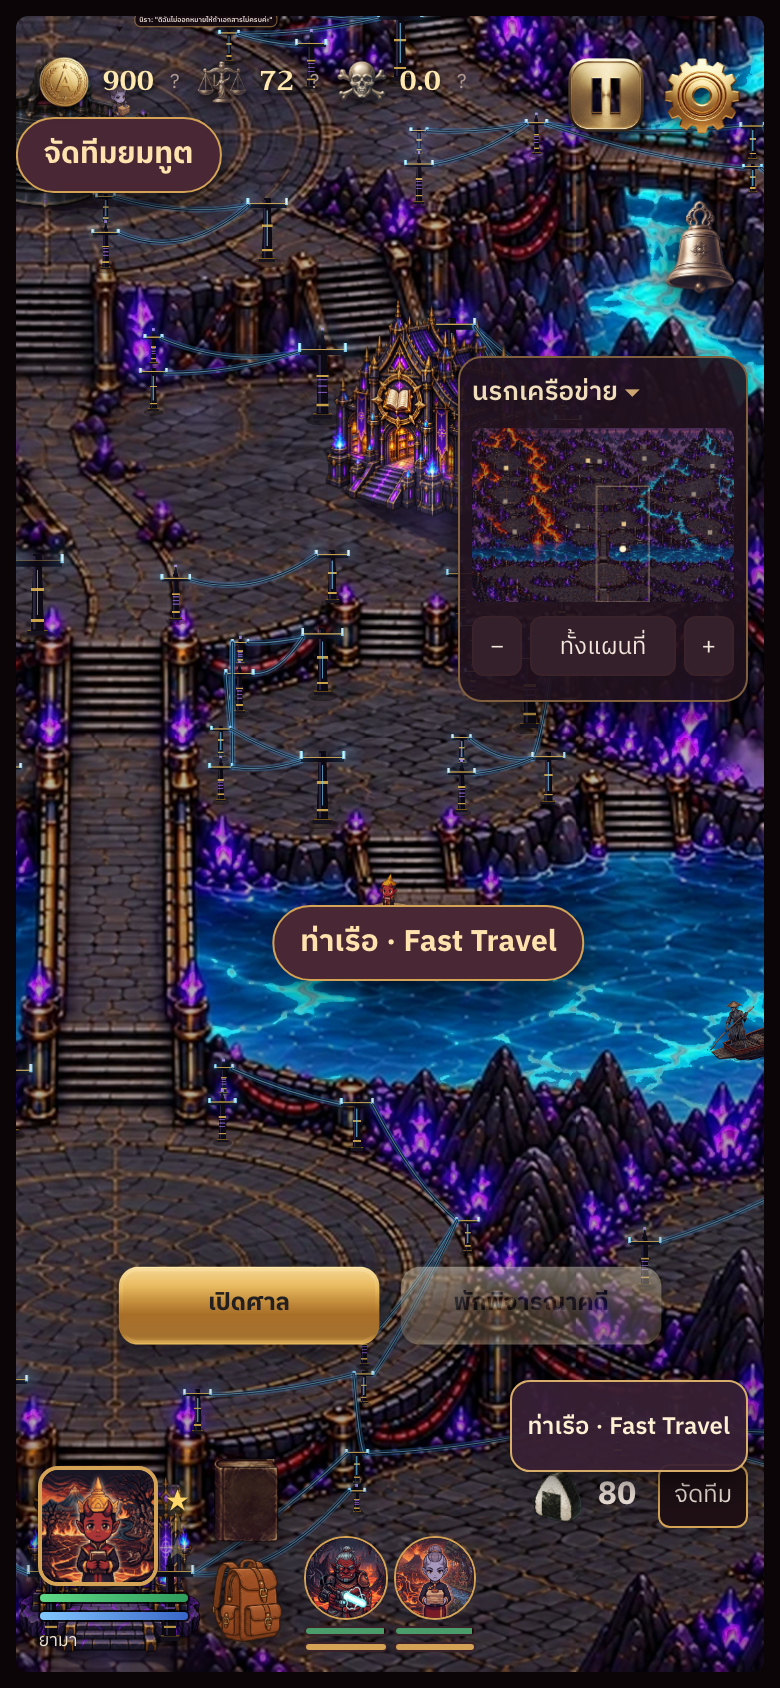
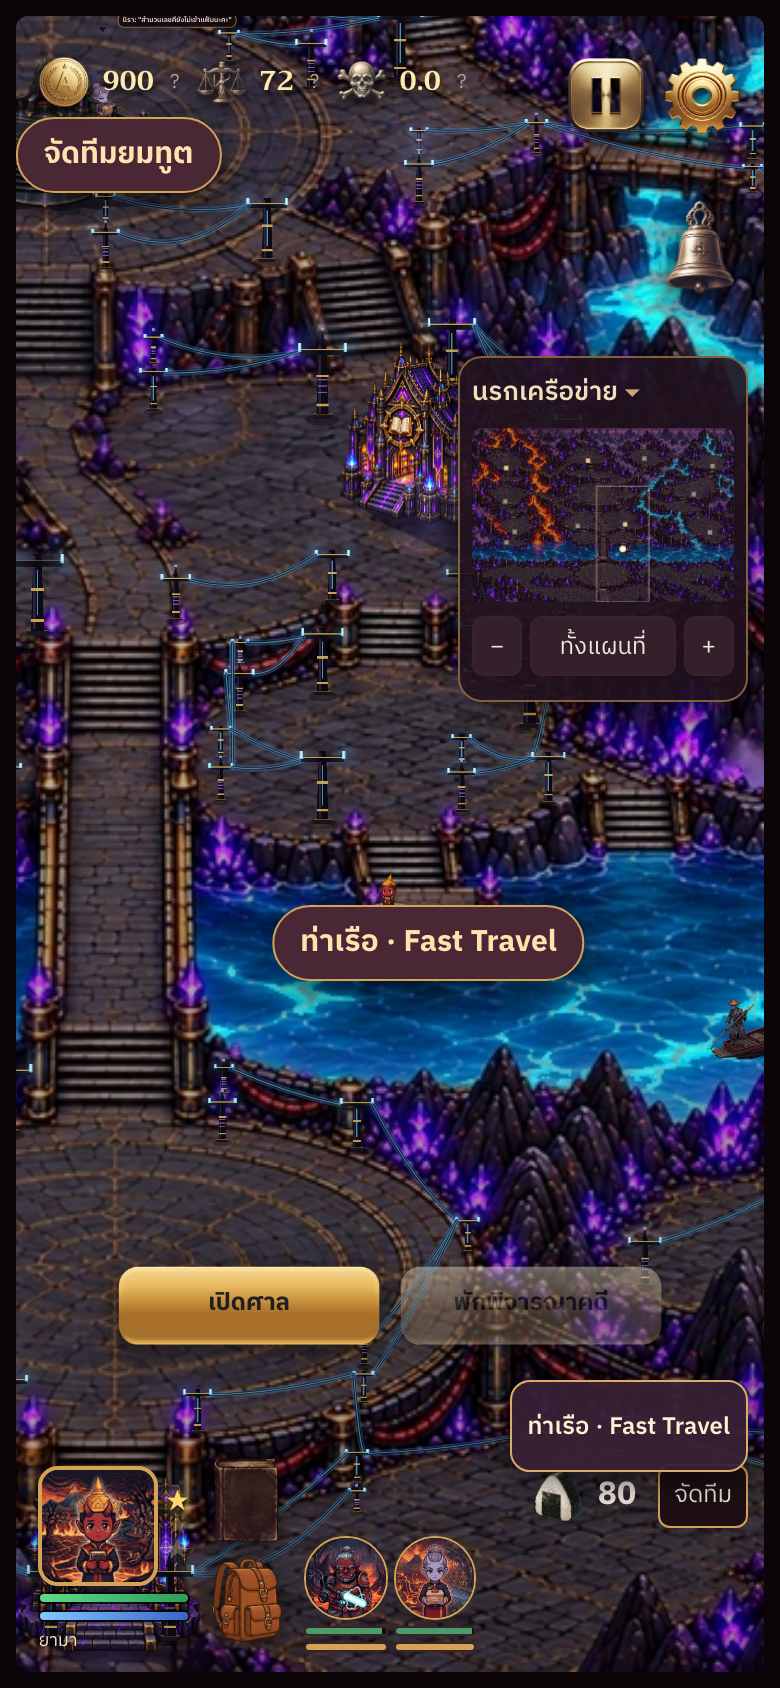
Q4-5: retire the zone 4 pier boss visually (standee, hit spot, talk button) via bossPierRetired; rematch game rule untouched

diff --git a/src/scene.js b/src/scene.js
@@ -4,7 +4,7 @@ import {drawCyberhellTerrain} from './cyberhell-terrain.js';
 import {drawMapTravel} from './map-travel.js';
 import {bossJusticeCase,bossJusticeActors} from './boss-justice.js';
 import {zoneWorkers,drawWorker} from './workers.js';
-import {bossGuideDismissed} from './boss-guides.js';
+import {bossGuideDismissed,bossPierRetired} from './boss-guides.js';
 import { drawAnimatedSprite } from './combat-sprites.js?v=night-v1';
 import { drawLocalLight } from './scene-style.js';
 import { activeTownZone } from './zone-skin.js';
@@ -533,7 +533,7 @@ export function render(ctx, g, t, hover, sel, cameraView = null) {
   })));
 
   // บอสเดินมาท้าสู้; แพ้แล้วเฝ้าสะพาน ชนะแล้วไปยืนที่ท่าเรือให้รีแมตช์/เปลี่ยนโซน
-  if (!(g.zone==='th'&&g.bossCleared?.th) && !bossGuideDismissed(g) && !(justice?.art?.startsWith('zone-boss')) && (g.bossWalk || g.bossGuarding?.[g.zone] || g.bossCleared?.[g.zone])) {
+  if (!(g.zone==='th'&&g.bossCleared?.th) && !bossGuideDismissed(g) && !bossPierRetired(g) && !(justice?.art?.startsWith('zone-boss')) && (g.bossWalk || g.bossGuarding?.[g.zone] || g.bossCleared?.[g.zone])) {
     const walk = g.bossWalk;
     const progress = walk ? Math.min(1, Math.max(0, (Date.now() - walk.started) / walk.duration)) : 0;
     const cleared = !walk && g.bossCleared?.[g.zone];
@@ -1022,7 +1022,7 @@ export function hitActor(g, sx, sy) {
   if (!westRescuePending(g) && g.zoneCaptivesFree() && merchantAvailable(g) && near(MERCHANT.x, MERCHANT.y, radius(54))) return { kind:'merchant', key:0 };
   if (westRescueActors(g).some(a => near(a.x,a.y,radius(60))))
     return { kind:'zoneEvent', key:'westHypnotized' };
-  if (g.zone!=='th' && g.bossCleared?.[g.zone] && !bossGuideDismissed(g) && near(SPOTS.bossPier.x, SPOTS.bossPier.y, radius(54))) return { kind:'boss', key:g.zone };
+  if (g.zone!=='th' && g.bossCleared?.[g.zone] && !bossGuideDismissed(g) && !bossPierRetired(g) && near(SPOTS.bossPier.x, SPOTS.bossPier.y, radius(54))) return { kind:'boss', key:g.zone };
   if (westRescuePending(g)) return null;
   for (let i = 0; i < g.mobs.length; i++)
     if (near(g.mobs[i].x, g.mobs[i].y)) return g.mobs[i].eventKey

diff --git a/src/npc-stand.js b/src/npc-stand.js
@@ -5,7 +5,7 @@ import { finalEventActors } from './final-event.js';
 // npc-stand.js — ตัวละครบนแผนที่ที่ยมบาทเดินทับไม่ได้ (30D)
 // ยมบาทเดินทับตัวเขาไม่ได้ (src/walk.js วงรอบตัว) · พิกัดตรงกับที่ scene.js วาด จึงอยู่ที่เดียวไม่ให้คลาดกัน
 import { SPOTS, MOB, MERCHANT, ZONE_EVENTS } from './data.js';
-import { bossGuideDismissed } from './boss-guides.js';
+import { bossGuideDismissed, bossPierRetired } from './boss-guides.js';
 
 /** อีเวนต์ที่รออยู่ที่ท่าเรือ (ผู้ท้าทายยืนรอให้ยมบาทเดินไปหา) — scene.js วาด, game.js กันทาง */
 export const waitingEvents = g => {
@@ -31,7 +31,7 @@ export function standPoints(g) {
   if (g.zoneCaptivesFree()) pts.push([MERCHANT.x, MERCHANT.y]);
   else pts.push([966, 350], [1038, 350]);        // ทัณฑ์กับพ่อค้าที่ถูกขังหน้าตะราง (โซน 4)
   if (actorStanding(g.guard)) pts.push([g.guard.x, g.guard.y]);
-  if (!g.bossWalk && !bossGuideDismissed(g) && (g.bossGuarding?.[g.zone] || g.bossCleared?.[g.zone])) pts.push([SPOTS.bossPier.x, SPOTS.bossPier.y]);
+  if (!g.bossWalk && !bossGuideDismissed(g) && !bossPierRetired(g) && (g.bossGuarding?.[g.zone] || g.bossCleared?.[g.zone])) pts.push([SPOTS.bossPier.x, SPOTS.bossPier.y]);
   for (const ev of waitingEvents(g)) pts.push([ev.x, ev.y]);
   for (const a of devaMapActors(g)) if (a.enabled) pts.push([a.x,a.y]);
   for (const a of finalEventActors(g)) pts.push([a.x,a.y]);

diff --git a/src/ui.js b/src/ui.js
@@ -13,7 +13,7 @@ import {canteenState} from './canteen.js';
 import {beginMapTravel,advanceMapTravel,finishMapTravel,cancelMapTravel,KAN_HANDOFF} from './map-travel.js';
 import { rewardView, startRewardCount, selectedVisibleFoeId, battleStatuses, specialMoveKey } from './battle-result.js';
 import { isMeleeAction, planDash, dashTiming, createDashSequence } from './battle-dash.js';
-import {pendingBossGuideGrant,acknowledgeBossGuideGrant} from './boss-guides.js';
+import {pendingBossGuideGrant,acknowledgeBossGuideGrant,bossPierRetired} from './boss-guides.js';
 import {bossJusticeCase,bossJusticeActors,bossJusticeActive,bossJusticeStations,bossJusticeCrew,bossJusticeAnswer,interrogateBoss,mirrorBoss,sentenceBoss,releaseBoss} from './boss-justice.js';
 import {workersPanelHtml,workerSuppliesHtml,workerSupplyBlocked,bindWorkersPanel} from './worker-ui.js';
 import {BUILD_PLAN,hireRank,recommendedHire,unlockedAtLevel} from './unlocks.js';
@@ -1404,7 +1404,7 @@ function updateMobFab() {
 /** บอสที่แพ้แล้วเฝ้าสะพาน ไม่กลับมาเองตามวาระ — เดินเข้าไปใกล้จึงเลือกท้าสู้ได้ */
 function updateBossFab() {
   const gone = () => { const e = ov.querySelector('.bossfab'); if (e) e.remove(); };
-  const pier = g.bossPierCanTalk();
+  const pier = g.bossPierCanTalk() && !bossPierRetired(g);
   if (g.zone==='th'&&g.bossCleared.th || g.over || g.battle || dlg.open || (!g.bossCanChallenge() && !pier)) return gone();
   let f = ov.querySelector('.bossfab');
   if (!f) {

diff --git a/src/boss-guides.js b/src/boss-guides.js
@@ -55,11 +55,10 @@ export function recordBossGuideWin(g,battle){
 const justiceHolding=(g,zone)=>Object.values(g.bossJustice?.ledger||{}).some(entry=>entry.zone===zone&&entry.phase!=='released');
 export function bossGuideWaiting(g,zone=g.zone){const s=bossGuideState(g,zone);return !!(s?.won&&!s.following&&!s.farewell&&!justiceHolding(g,zone));}
 /** O1: once the guide has said farewell at the new land's gate the boss is gone for good — route, frontier stand, city pier and every hidden hit spot. */
-export function bossGuideDismissed(g,zone=g.zone){
-  // Q4-5: zone 4 has no next land to escort to, so once its boss is beaten he leaves the pier for good (no standee, no talk button, no rematch there).
-  if(zone==='cyberhell'&&g.bossCleared?.cyberhell)return true;
-  return !!bossGuideState(g,zone)?.farewell;
-}
+export function bossGuideDismissed(g,zone=g.zone){return !!bossGuideState(g,zone)?.farewell;}
+/** Q4-5: zone 4 has no next land to escort to, so once its boss is beaten he leaves the pier for good (no standee, no hit spot, no talk button).
+ *  Game rules (rematch via game.startZoneBoss) are untouched; only what the player sees and can press is retired. */
+export const bossPierRetired=(g,zone=g.zone)=>zone==='cyberhell'&&!!g.bossCleared?.cyberhell;
 export function bossGuideFollowing(g,zone=g.zone){const s=bossGuideState(g,zone);return !!(s?.won&&s.following&&!s.farewell&&!justiceHolding(g,zone));}
 /** A guest combatant belongs to the journey, never to the hireable office roster. */
 export function bossGuideCombatant(g) {
